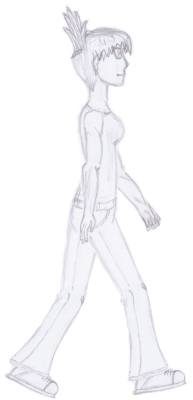
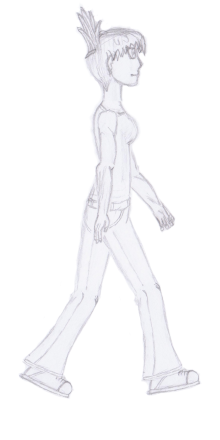
redesigned entryroom, adjusted sketched walkframes

diff --git a/index.html b/index.html
@@ -109,7 +109,7 @@
 			image.home_floor1 = createImage("ress/home_ups1.png");
 			image.home_floor2 = createImage("ress/home_ups2.png");
 			image.room1 = createImage("ress/room1.png");
-			image.home_atrium = createImage("ress/atrium.png");
+			image.home_floor3 = createImage("ress/home_dns1.png");
 			image.livingroom = createImage("ress/living room.png");
 
             console.log(image);
@@ -179,7 +179,7 @@
 				if (scene === "home_floor1") home_floor1F();
 				if (scene === "home_floor2") home_floor2F();
 				if (scene === "room1") room1F();
-				if (scene === "home_atrium") home_atriumF();
+				if (scene === "home_floor3") home_floor3F();
 				if (scene === "livingroom") livingroomF();
                 physik();
                 if (scene !== "menue") ctx.fillText("Version 0.24", 1140, 710);
@@ -521,7 +521,7 @@
 			if (player1.x < 0) player1.x = 1280, scene = "home_floor2";
 			if (player1.x > 260 && player1.x < 410){
 				if (player1.crouch === "false") ctx.fillText("Downstairs(S)",300,groundlevel);
-				if (player1.crouch === "true") scene = "home_atrium", player1.x = 180;
+				if (player1.crouch === "true") scene = "home_floor3", player1.x = 600;
 			}
 			if (player1.x > 710 && player1.x < 850){
 				if (use === "false") ctx.fillText("Enter(E)",800,groundlevel);
@@ -593,23 +593,23 @@
 			}
 			if (player1.x > 1080) player1.x = 1080;
 		}
-		function home_atriumF(){
-			background = image.home_atrium;
+		function home_floor3F(){
+			background = image.home_floor3;
 			scale = 1;
 			groundlevel = 220;
 			theme2.play();
 			if (player1.x< 0) scene = "livingroom", player1.x = 1100;
-			if (player1.x> 50 && player1.x< 200) {
-				if (player1.crouch !== "jump") ctx.fillText("Upstairs(W)",100,220);
+			if (player1.x> 460 && player1.x< 640) {
+				if (player1.crouch !== "jump") ctx.fillText("Upstairs(W)",500,220);
 				if (player1.crouch === "jump") use = "stairs";
 				if (use === "stairs") scene = "home_floor1", player1.x = 300, use = "false";
 			}
-			if (player1.x > 320 && player1.x < 500){
-				if (use === "false") ctx.fillText("Enter(E)",400,220);
+			if (player1.x > 720 && player1.x < 800){
+				if (use === "false") ctx.fillText("Enter(E)",800,220);
 				if (use === "true") use = "leaving";
 				if (use === "leaving"){
-					ctx.fillText("In progress...",400,220);
-					setTimeout(normalize,300);
+					ctx.fillText("Its locked?...",800,220);
+					setTimeout(normalize,1000);
 				}
 			}
 			if (player1.x > 1000) ctx.fillText("I dont want to go outside right now...",900,220);
@@ -632,7 +632,7 @@
 					talk("Riyu: Yeah, they should really hurry up...",4);
 				}	
 			}
-			if (player1.x > 1180) scene = "home_atrium", player1.x = 0;
+			if (player1.x > 1180) scene = "home_floor3", player1.x = 0;
 		}
         // Scripted by Shamenox with a lot of help by Miterosan
     </script>
